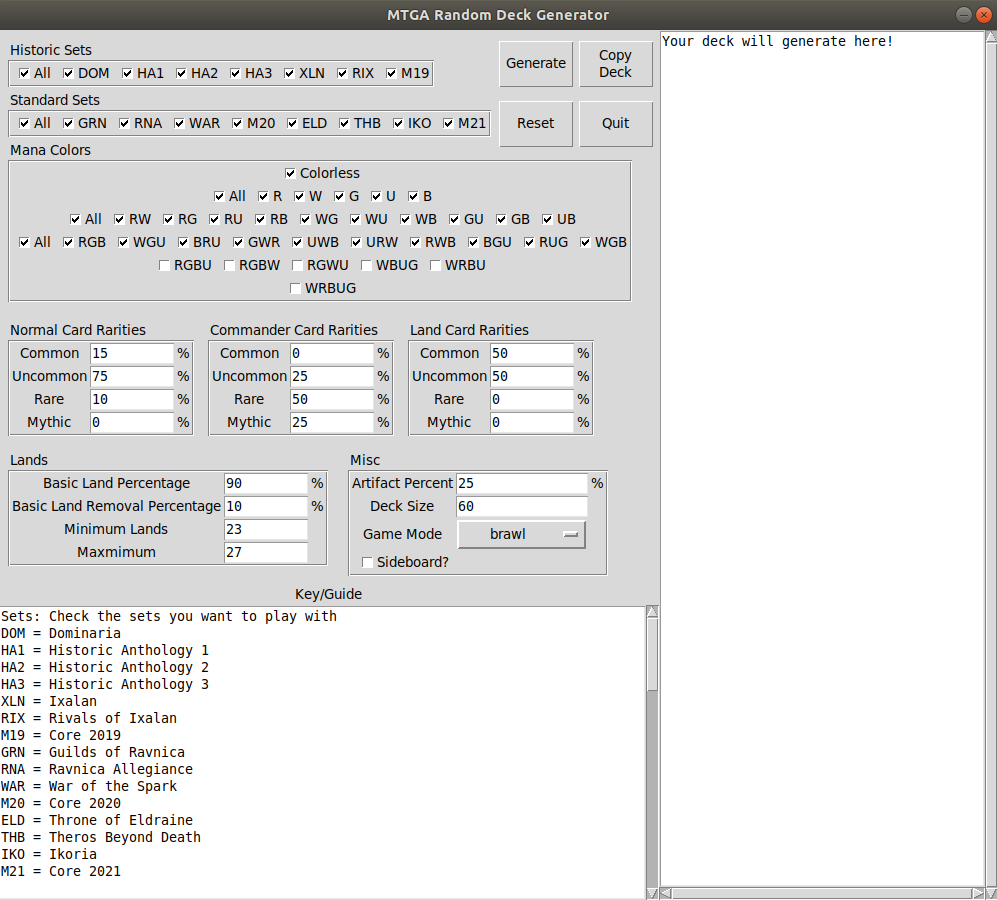
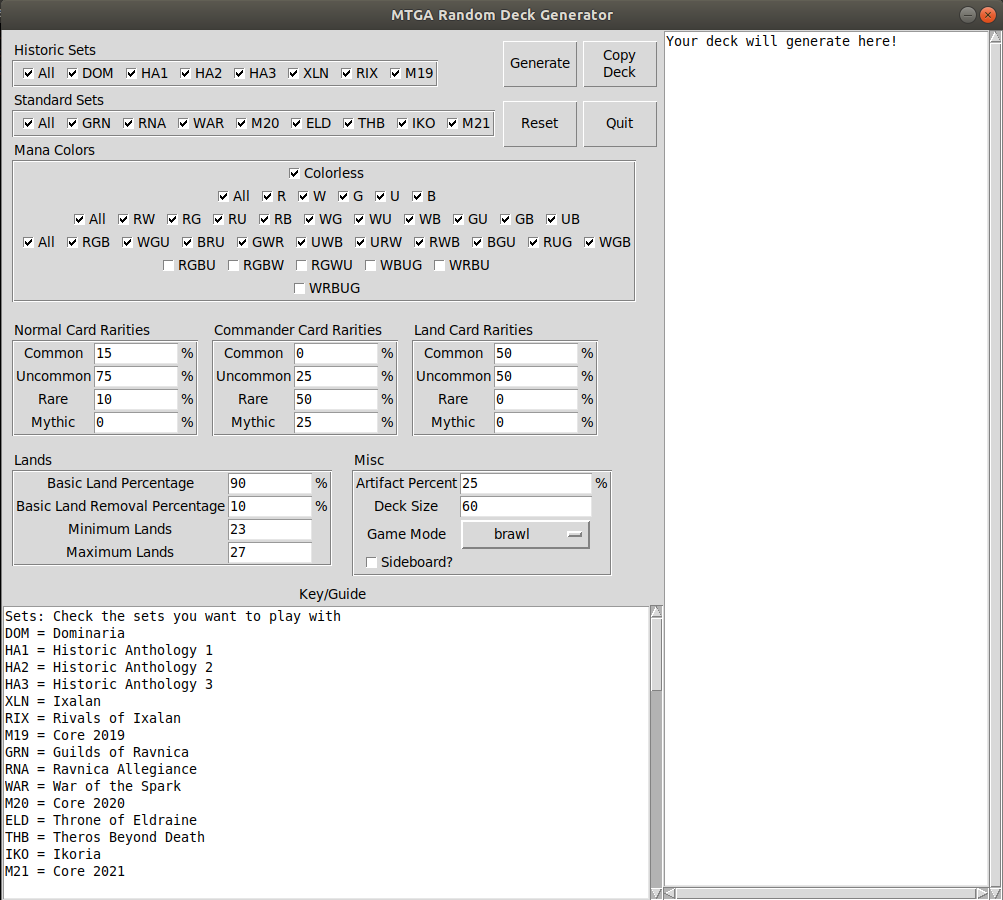
GUI updates

diff --git a/randomizer.py b/randomizer.py
@@ -783,17 +783,15 @@ if __name__ == "__main__":
     allColor = Checkbar(manaFrame, ["WRBUG"], toSelect=1, allBar=False)
     allColor.pack()
     manaFrame.config(relief=GROOVE, bd=2)
-  
+ 
+    rarityLabels = ["Common", "Uncommon", "Rare", "Mythic"]
+
     #Normal Cards
     normalCard = Label(root, text="Normal Card Rarities")
     normalCard.place(x=10, y=290)
     normalFrame = Frame(root)
     normalFrame.pack()
     normalFrame.place(x=10, y=310)
-    Label(normalFrame, text="Common").grid(row=0)
-    Label(normalFrame, text="Uncommon").grid(row=1)
-    Label(normalFrame, text="Rare").grid(row=2)
-    Label(normalFrame, text="Mythic").grid(row=3)
     normalC = Text(normalFrame, height=1, width=10)
     normalUC = Text(normalFrame, height=1, width=10)
     normalR = Text(normalFrame, height=1, width=10)
@@ -801,6 +799,7 @@ if __name__ == "__main__":
     normalList = [normalC, normalUC, normalR, normalM]
     normalListVariable = ["15", "75", "10", "0"]
     for x in range(len(normalList)):
+        Label(normalFrame, text=rarityLabels[x]).grid(row=x)
         normalList[x].bind("<Tab>", focus_next_widget)
         normalList[x].bind("<Return>", focus_next_widget)
         normalList[x].insert(END, normalListVariable[x])
@@ -814,10 +813,6 @@ if __name__ == "__main__":
     commanderFrame = Frame(root)
     commanderFrame.pack()
     commanderFrame.place(x=210, y=310)
-    Label(commanderFrame, text="Common").grid(row=0)
-    Label(commanderFrame, text="Uncommon").grid(row=1)
-    Label(commanderFrame, text="Rare").grid(row=2)
-    Label(commanderFrame, text="Mythic").grid(row=3)
     commanderC = Text(commanderFrame, height=1, width=10)
     commanderUC = Text(commanderFrame, height=1, width=10)
     commanderR = Text(commanderFrame, height=1, width=10)
@@ -825,6 +820,7 @@ if __name__ == "__main__":
     commanderList = [commanderC, commanderUC, commanderR, commanderM]
     commanderListVariable = ["0", "25", "50", "25"]
     for x in range(len(commanderList)):
+        Label(commanderFrame, text=rarityLabels[x]).grid(row=x)
         commanderList[x].bind("<Tab>", focus_next_widget)
         commanderList[x].bind("<Return>", focus_next_widget)
         commanderList[x].insert(END, commanderListVariable[x])
@@ -838,10 +834,6 @@ if __name__ == "__main__":
     landFrame = Frame(root)
     landFrame.pack()
     landFrame.place(x=410, y=310)
-    Label(landFrame, text="Common").grid(row=0)
-    Label(landFrame, text="Uncommon").grid(row=1)
-    Label(landFrame, text="Rare").grid(row=2)
-    Label(landFrame, text="Mythic").grid(row=3)
     landC = Text(landFrame, height=1, width=10)
     landUC = Text(landFrame, height=1, width=10)
     landR = Text(landFrame, height=1, width=10)
@@ -849,6 +841,7 @@ if __name__ == "__main__":
     landList = [landC, landUC, landR, landM]
     landListVariable = ["50", "50", "0", "0"]
     for x in range(len(landList)):
+        Label(landFrame, text=rarityLabels[x]).grid(row=x)
         landList[x].bind("<Tab>", focus_next_widget)
         landList[x].bind("<Return>", focus_next_widget)
         landList[x].insert(END, landListVariable[x])
@@ -865,7 +858,7 @@ if __name__ == "__main__":
     Label(landManaFrame, text="Basic Land Percentage").grid(row=0)
     Label(landManaFrame, text="Basic Land Removal Percentage").grid(row=1)
     Label(landManaFrame, text="Minimum Lands").grid(row=2)
-    Label(landManaFrame, text="Maxmimum").grid(row=3)
+    Label(landManaFrame, text="Maximum Lands").grid(row=3)
     landPercent = Text(landManaFrame, height=1, width=10)
     landRPercent = Text(landManaFrame, height=1, width=10)
     minLand = Text(landManaFrame, height=1, width=10)
